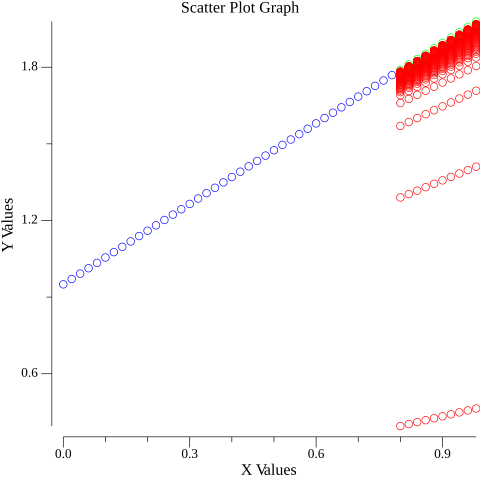
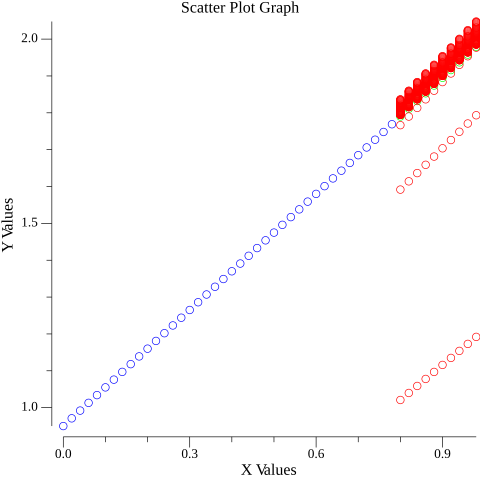
#41

diff --git a/pkg/servers/neuralNetworkServer/interactiveTrain.go b/pkg/servers/neuralNetworkServer/interactiveTrain.go
@@ -7,34 +7,58 @@ import (
 	protoV1 "github.com/binuud/ai-green-field/gen/go/v1/neuralNetwork"
 	bTensor "github.com/binuud/ai-green-field/pkg/bTensor"
 	nn "github.com/binuud/ai-green-field/pkg/neuralNetwork"
+	"github.com/google/uuid"
 	"github.com/sirupsen/logrus"
+	"google.golang.org/protobuf/types/known/timestamppb"
 )
 
-func (s *grpcNeuralnetworkserver) newTrainingState(inConfig *protoV1.ModelConfig) *protoV1.Model {
+func (s *grpcNeuralnetworkserver) updateTrainingModel(in *protoV1.Model) {
 
-	state := &protoV1.ModelState{
-		Status:       protoV1.ModelState_Pause,
-		CurrentEpoch: 0,
+	if s.Model == nil {
+		s.Model = &protoV1.Model{
+			Config: nil,
+			State: &protoV1.ModelState{
+				CurrentEpoch: 0,
+				CreatedAt:    timestamppb.New(time.Now()),
+				UpdatedAt:    timestamppb.New(time.Now()),
+				TrainingLoss: 1,
+				TestLoss:     1,
+			},
+			Uuid: uuid.New().String(),
+		}
+
+	}
+
+	if s.Model.Uuid == "" {
+		s.Model.Uuid = uuid.New().String()
 	}
 
 	config := &protoV1.ModelConfig{
-		Name:               inConfig.Name,
-		ActivationFunction: inConfig.ActivationFunction,
-		EpochBatch:         inConfig.EpochBatch,
-		Epochs:             inConfig.Epochs,
-		LearningRate:       inConfig.LearningRate,
-		NumInputs:          inConfig.NumInputs,
-		NumLayers:          inConfig.NumLayers,
-		NumOutputs:         inConfig.NumOutputs,
-		Regularization:     inConfig.Regularization,
-		RegularizationRate: inConfig.RegularizationRate,
+		Name:               in.Config.Name,
+		ActivationFunction: in.Config.ActivationFunction,
+		EpochBatch:         in.Config.EpochBatch,
+		Epochs:             in.Config.Epochs,
+		LearningRate:       in.Config.LearningRate,
+		NumInputs:          in.Config.NumInputs,
+		NumLayers:          in.Config.NumLayers,
+		NumOutputs:         in.Config.NumOutputs,
+		Regularization:     in.Config.Regularization,
+		RegularizationRate: in.Config.RegularizationRate,
 	}
 
-	return &protoV1.Model{
-		State:  state,
-		Config: config,
-	}
+	s.Model.Config = config
+	s.Model.State.Status = protoV1.ModelState_Pause
 
+}
+
+func (s *grpcNeuralnetworkserver) sendStreamResponse(stream protoV1.NeuralNetwork_InteractiveTrainServer) {
+	resp := &protoV1.InteractiveTrainNeuralNetworkResponse{
+		Model: s.Model,
+	}
+	logrus.Infof("\n Sending model ping to client %v", resp.Model.State)
+	if err := stream.Send(resp); err != nil {
+		logrus.Printf("send error: %v", err)
+	}
 }
 
 // InteractiveTrain method, for pausing and starting training and peeking and loss data during training
@@ -44,7 +68,6 @@ func (s *grpcNeuralnetworkserver) InteractiveTrain(stream protoV1.NeuralNetwork_
 	var (
 		currentNum                   = 1
 		mu                           sync.Mutex
-		model                        = &protoV1.Model{}
 		x                            *bTensor.BTensor
 		y                            []float32
 		xTrain, yTrain, xTest, yTest []float32
@@ -52,28 +75,29 @@ func (s *grpcNeuralnetworkserver) InteractiveTrain(stream protoV1.NeuralNetwork_
 	)
 
 	// Goroutine to handle continuous streaming of training state, when its running
-	go func() {
-		ticker := time.NewTicker(1000 * time.Millisecond)
-		defer ticker.Stop()
+	// go func() {
+	// 	ticker := time.NewTicker(1000 * time.Millisecond)
+	// 	defer ticker.Stop()
 
-		for {
-			mu.Lock()
-			// send updates every 1000 msec, only if the training is in running state
-			if model.State.Status == protoV1.ModelState_Running {
-				resp := &protoV1.InteractiveTrainNeuralNetworkResponse{
-					Model: model,
-				}
-				if err := stream.Send(resp); err != nil {
-					logrus.Printf("send error: %v", err)
-					return
-				}
-			}
+	// 	for {
+	// 		mu.Lock()
+	// 		// send updates every 1000 msec, only if the training is in running state
+	// 		if model != nil && model.State != nil {
+	// 			resp := &protoV1.InteractiveTrainNeuralNetworkResponse{
+	// 				Model: model,
+	// 			}
+	// 			logrus.Infof("\n Sending model ping to client %v", resp.Model.State)
+	// 			if err := stream.Send(resp); err != nil {
+	// 				logrus.Printf("send error: %v", err)
+	// 				return
+	// 			}
+	// 		}
 
-			mu.Unlock()
+	// 		mu.Unlock()
 
-			<-ticker.C
-		}
-	}()
+	// 		<-ticker.C
+	// 	}
+	// }()
 
 	// Handle client control messages
 	for {
@@ -89,7 +113,7 @@ func (s *grpcNeuralnetworkserver) InteractiveTrain(stream protoV1.NeuralNetwork_
 			case protoV1.TrainingAction_New:
 
 				logrus.Printf("\n Initializing training with fresh set (%v)", in.Model)
-				model = s.newTrainingState(in.Model.Config)
+				s.updateTrainingModel(in.Model)
 
 				x = bTensor.NewFromArange(0.0, 1.0, 0.02)
 				logrus.Println("Result X:", x.Data[:10])
@@ -111,30 +135,34 @@ func (s *grpcNeuralnetworkserver) InteractiveTrain(stream protoV1.NeuralNetwork_
 				logrus.Printf("\n Test Data len %d, %d", len(xTest), len(yTest))
 
 				// create random training weights
-				nnModel = nn.NewNeuralNetwork(model.Config)
+				nnModel = nn.NewNeuralNetworkFromModel(s.Model)
 				nnModel.LogConfig()
+				s.sendStreamResponse(stream)
 
 			case protoV1.TrainingAction_Start:
-
+				// Training resumed after pause,
+				// Train for another epoch batch, and return the updated model with new test and training loss
 				logrus.Println("Starting training")
-				model.State.Status = protoV1.ModelState_Running
-				nnModel.LogConfig()
+				s.Model.State.Status = protoV1.ModelState_Running
 				nnModel.InteractiveTrain(xTrain, yTrain, xTest, yTest)
 				nnModel.LogConfig()
-				model.State.CurrentEpoch += model.Config.EpochBatch
-				if model.State.CurrentEpoch >= model.Config.EpochBatch {
-					model.State.Status = protoV1.ModelState_Completed
+				s.Model.State.CurrentEpoch += s.Model.Config.EpochBatch
+
+				s.Model.State = s.Model.State
+				if s.Model.State.CurrentEpoch >= s.Model.Config.EpochBatch {
+					s.Model.State.Status = protoV1.ModelState_Completed
 				} else {
-					model.State.Status = protoV1.ModelState_Pause
+					s.Model.State.Status = protoV1.ModelState_Pause
 				}
+				s.sendStreamResponse(stream)
 
 			case protoV1.TrainingAction_Pause:
 				logrus.Println("Pausing training")
-				model.State.Status = protoV1.ModelState_Pause
+				s.Model.State.Status = protoV1.ModelState_Pause
 				logrus.Printf("Stream paused at number %d", currentNum)
 
 			case protoV1.TrainingAction_Stop:
-				model.State.Status = protoV1.ModelState_Stopped
+				s.Model.State.Status = protoV1.ModelState_Stopped
 				logrus.Printf("Stream paused at number %d", currentNum)
 
 			default:

diff --git a/pkg/neuralNetwork/neuralNetwork.go b/pkg/neuralNetwork/neuralNetwork.go
@@ -35,7 +35,17 @@ func NewNeuralNetwork(config *protoV1.ModelConfig) *NeuralNetwork {
 
 }
 
-func NewNeuralNetworkFromModel(ModelFile string) (*NeuralNetwork, error) {
+func NewNeuralNetworkFromModel(model *protoV1.Model) *NeuralNetwork {
+
+	logrus.Infof("\n Model details %v", model)
+	linearRegression := NewLinearRegressionModel(model.Config.Seed)
+	model.LinearModel = linearRegression
+
+	return &NeuralNetwork{Model: model}
+
+}
+
+func NewNeuralNetworkFromModelFile(ModelFile string) (*NeuralNetwork, error) {
 
 	err, model := loadFromModelFile(ModelFile)
 	if err != nil {
@@ -53,8 +63,9 @@ func (nn *NeuralNetwork) GetConfig() *protoV1.ModelConfig {
 }
 
 func (nn *NeuralNetwork) LogConfig() {
-	logrus.Infof("\n Model Config %#v", nn.Model.Config)
-	logrus.Infof("\n Linear Model%#v", nn.Model.LinearModel)
+	logrus.Infof("\n Model Config (%s) -- %v", nn.Model.Uuid, nn.Model.Config)
+	logrus.Infof("\n Model State %v", nn.Model.State)
+	logrus.Infof("\n Linear Model %v", nn.Model.LinearModel)
 }
 
 func (nn *NeuralNetwork) UpdateLinearParams(gradientM float32, gradientC float32, lr float32) {
@@ -106,7 +117,15 @@ func (nn *NeuralNetwork) InteractiveTrain(xTrain []float32, yTrain []float32, xT
 		nn.UpdateLinearParams(gradM, gradC, lr)
 
 	}
-	logrus.Printf("\n Loss: %f Weight: %f Bias:%f", nn.Model.State.TrainingLoss, p.Weight, p.Bias)
+	nn.CalculateTestLoss(xTest, yTest)
+	logrus.Printf("\n Training Loss: %f, Test Loss: %f, Weight: %f Bias:%f", nn.Model.State.TrainingLoss, nn.Model.State.TestLoss, p.Weight, p.Bias)
+
+}
+
+func (nn *NeuralNetwork) CalculateTestLoss(xTest []float32, yTest []float32) {
+
+	predicted := nn.Predict(xTest)
+	nn.Model.State.TestLoss = CalculateLoss(yTest, predicted)
 
 }
 

diff --git a/pkg/servers/neuralNetworkServer/websocketHandler.go b/pkg/servers/neuralNetworkServer/websocketHandler.go
@@ -2,6 +2,7 @@ package neuralnetworkserver
 
 import (
 	"context"
+	"encoding/json"
 	"net/http"
 	"sync"
 
@@ -62,8 +63,16 @@ func InteractiveTrainWebsocketHandler(w http.ResponseWriter, r *http.Request) {
 				logrus.Printf("gRPC stream ended: %v", err)
 				return
 			}
+			outStr, err := protojson.Marshal(outMsg)
+			if err != nil {
+				logrus.Printf("Cannot marshall InteractiveTrainNeuralNetworkResponse to string: %v", err)
+				return
+			}
 			logrus.Infof("Data grpc -> websocket: %+v\n", outMsg)
-			if err := ws.WriteJSON(outMsg); err != nil {
+			// writeJSON emits enum as integers
+			// this breaks the parsing at the UI end
+			// DO NOT CHANGE, by binu.
+			if err := ws.WriteMessage(1, outStr); err != nil {
 				logrus.Printf("WebSocket write error: %v", err)
 				return
 			}
@@ -84,14 +93,18 @@ func InteractiveTrainWebsocketHandler(w http.ResponseWriter, r *http.Request) {
 				logrus.Errorf("Read from websocket error: %v", err)
 				break
 			}
-
+			logrus.Infof("Parsing %s", msg)
 			// read StreamRequest from websocket
 			var inMsg protoV1.InteractiveTrainNeuralNetworkRequest
 			err = protojson.Unmarshal(msg, &inMsg)
-			// err = json.Unmarshal(msg, &data)
+			// err = json.Unmarshal(msg, &inMsg)
 			if err != nil {
-				logrus.Errorf("Error unmarshaling JSON: %v", err)
-				continue
+				logrus.Errorf("Error unmarshaling InteractiveTrainNeuralNetworkRequest protojson: %v", err)
+
+				err = json.Unmarshal(msg, &inMsg)
+				if err != nil {
+					logrus.Errorf("Error unmarshaling InteractiveTrainNeuralNetworkRequest json: %v", err)
+				}
 			}
 
 			// send via grpc client

diff --git a/pkg/servers/neuralNetworkServer/neuralNetworkServer.go b/pkg/servers/neuralNetworkServer/neuralNetworkServer.go
@@ -8,7 +8,6 @@ import (
 	protoV1 "github.com/binuud/ai-green-field/gen/go/v1/neuralNetwork"
 	bTensor "github.com/binuud/ai-green-field/pkg/bTensor"
 	nn "github.com/binuud/ai-green-field/pkg/neuralNetwork"
-	"github.com/google/uuid"
 	"github.com/sirupsen/logrus"
 	"google.golang.org/protobuf/types/known/timestamppb"
 )
@@ -28,25 +27,19 @@ func NewGrpcNeuralNetworkServer() *grpcNeuralnetworkserver {
 
 func (s *grpcNeuralnetworkserver) Create(ctx context.Context, in *protoV1.CreateNeuralNetworkRequest) (*protoV1.CreateNeuralNetworkResponse, error) {
 
-	model := in.Model
-	model.Uuid = uuid.New().String() // #TODO change to uuidv4
+	s.updateTrainingModel(in.Model)
 
-	model.State.CreatedAt = timestamppb.New(time.Now())
-	model.State.UpdatedAt = timestamppb.New(time.Now())
-
-	logrus.Infof("Created Neural Network (%v)", model)
+	logrus.Infof("Created Neural Network (%v)", s.Model)
 
 	return &protoV1.CreateNeuralNetworkResponse{
-		Model: model,
+		Model: s.Model,
 	}, nil
 }
 
 func (s *grpcNeuralnetworkserver) Save(ctx context.Context, in *protoV1.SaveNeuralNetworkRequest) (*protoV1.SaveNeuralNetworkResponse, error) {
 
 	model := in.Model
-	model.Uuid = uuid.New().String() // #TODO change to uuidv4
 
-	model.State.CreatedAt = timestamppb.New(time.Now())
 	model.State.UpdatedAt = timestamppb.New(time.Now())
 
 	logrus.Infof("Saved Neural Network (%v)", model)

diff --git a/pkg/neuralNetwork/lib.go b/pkg/neuralNetwork/lib.go
@@ -16,13 +16,13 @@ func ApplyLinearEquation(xData []float32, weight float32, bias float32) []float3
 
 // MSE or Mean Squared Error
 func CalculateLoss(actuals []float32, predictions []float32) float32 {
-	var diff float64
+	var diff float32
 	for i := range actuals {
 		d := predictions[i] - actuals[i]
-		diff += math.Pow(float64(d), 2.0)
+		diff += float32(math.Pow(float64(d), 2.0))
 	}
-	avergageLoss := diff / float64(len(actuals))
-	return float32(avergageLoss)
+	avergageLoss := diff / float32(len(actuals))
+	return avergageLoss
 }
 
 func CalcGradientWeight(orig_x []float32, orig_y []float32, predicted_y []float32) float32 {

diff --git a/pkg/neuralNetwork/persist_test.go b/pkg/neuralNetwork/persist_test.go
@@ -35,7 +35,7 @@ func Test_NN_SaveLoad(t *testing.T) {
 	}
 
 	// test model load
-	newModel, err := NewNeuralNetworkFromModel(filename)
+	newModel, err := NewNeuralNetworkFromModelFile(filename)
 	if err != nil {
 		t.Errorf("Cannot load model from saved file")
 	}
